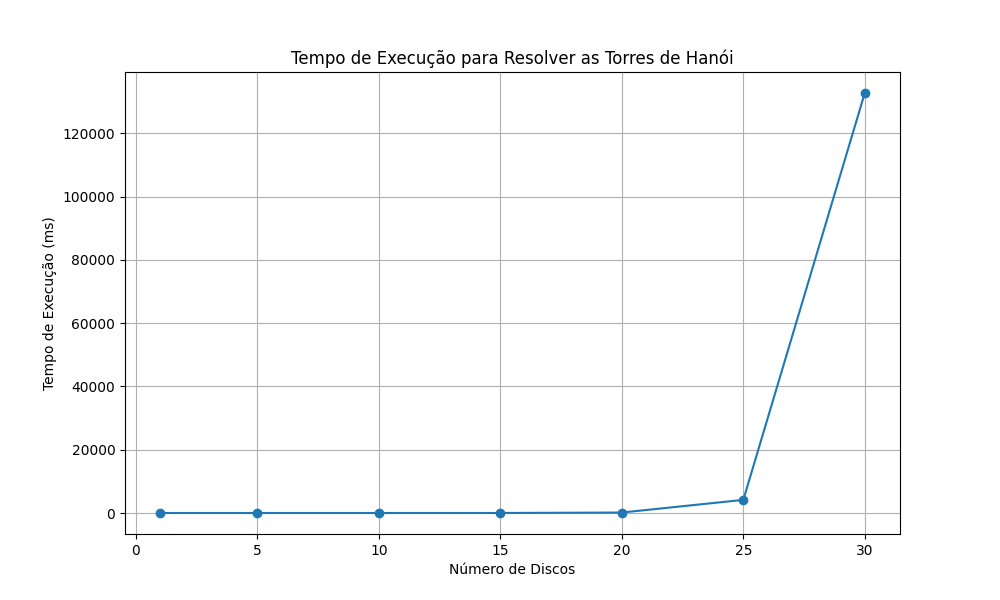
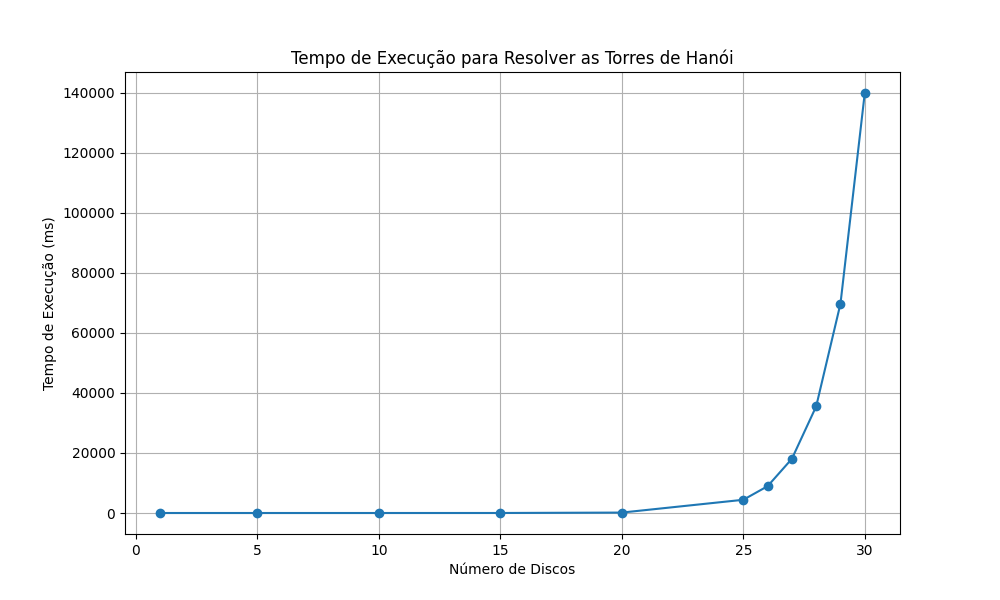
at

diff --git a/projetoBloco/tp2/15/cython/benchmark.py b/projetoBloco/tp2/15/cython/benchmark.py
@@ -1,0 +1,82 @@
+# benchmark.py
+import numpy as np
+import time
+import soma_paralela
+import matplotlib.pyplot as plt
+
+
+def executar_testes():
+    tamanhos = [1_000_000, 5_000_000, 10_000_000]
+    threads = [1, 2, 4, 8]
+
+    resultados = []
+
+    for tamanho in tamanhos:
+        print(f"\nTeste com lista de tamanho: {tamanho}")
+        print("--------------------------------------------------")
+
+        arr = np.arange(1, tamanho + 1, dtype=np.int64)
+
+        # Teste sequencial
+        start = time.perf_counter()
+        resultado_seq = soma_paralela.soma_sequencial(arr)
+        tempo_seq = (time.perf_counter() - start) * 1000
+
+        print(f"Sequencial - Resultado: {resultado_seq}, Tempo: {tempo_seq:.2f} ms")
+
+        # Testes paralelos
+        for t in threads:
+            start = time.perf_counter()
+            resultado_par = soma_paralela.soma_paralela(arr, t)
+            tempo_par = (time.perf_counter() - start) * 1000
+
+            speedup = tempo_seq / tempo_par
+            print(
+                f"Paralelo ({t} threads) - Resultado: {resultado_par}, Tempo: {tempo_par:.2f} ms, Speedup: {speedup:.2f}x")
+
+            resultados.append({
+                'tamanho': tamanho,
+                'threads': t,
+                'sequencial_ms': tempo_seq,
+                'paralelo_ms': tempo_par,
+                'speedup': speedup
+            })
+
+    return resultados
+
+
+def plotar_resultados(resultados):
+    tamanhos = sorted({r['tamanho'] for r in resultados})
+
+    for tamanho in tamanhos:
+        dados = [r for r in resultados if r['tamanho'] == tamanho]
+        threads = [d['threads'] for d in dados]
+        tempos = [d['paralelo_ms'] for d in dados]
+
+        plt.figure()
+        plt.bar([str(t) for t in threads], tempos)
+        plt.xlabel('Número de Threads')
+        plt.ylabel('Tempo (ms)')
+        plt.title(f'Desempenho Paralelo - Tamanho {tamanho:,}')
+        plt.savefig(f'cython_desempenho_{tamanho}.png')
+        plt.close()
+
+
+if __name__ == '__main__':
+    # Compila os módulos Cython
+    print("Compilando módulos Cython...")
+    from subprocess import run
+
+    run(["python", "setup.py", "build_ext", "--inplace"], check=True)
+
+    resultados = executar_testes()
+    plotar_resultados(resultados)
+
+    # Verificação final
+    print("\nVerificação de consistência:")
+    arr_pequeno = np.arange(1, 1001, dtype=np.int64)
+    soma_seq = soma_paralela.soma_sequencial(arr_pequeno)
+    soma_par = soma_paralela.soma_paralela(arr_pequeno, 2)
+    print(f"Soma Sequencial: {soma_seq}")
+    print(f"Soma Paralela: {soma_par}")
+    print(f"Resultados iguais: {soma_seq == soma_par}")

diff --git a/projetoBloco/tp2/15/soma-lista-numba-jit.py b/projetoBloco/tp2/15/soma-lista-numba-jit.py
@@ -1,0 +1,68 @@
+import time
+from multiprocessing import Pool
+import numpy as np
+from functools import reduce
+
+
+def generate_list(size):
+    return np.random.randint(1, 1000, size).tolist()
+
+
+def sequential_sum(numbers):
+    start_time = time.perf_counter()
+    result = sum(numbers)
+    end_time = time.perf_counter()
+    return result, (end_time - start_time) * 1000  # Convertendo para ms
+
+
+def partial_sum(chunk):
+    return sum(chunk)
+
+
+def parallel_sum(numbers, num_threads=4):
+    start_time = time.perf_counter()
+
+    chunk_size = len(numbers) // num_threads
+    chunks = [numbers[i:i + chunk_size] for i in range(0, len(numbers), chunk_size)]
+
+    with Pool(processes=num_threads) as pool:
+        partial_results = pool.map(partial_sum, chunks)
+
+    total = sum(partial_results)
+    end_time = time.perf_counter()
+
+    return total, (end_time - start_time) * 1000  # Convertendo para ms
+
+
+def perf_test(list_size, thread_configs=[1, 2, 4, 8]):
+    numbers = generate_list(list_size)
+    print(f"\nTeste com lista de tamanho: {list_size}")
+    print("-" * 50)
+
+    seq_result, seq_time = sequential_sum(numbers)
+    print(f"Sequencial - Resultado: {seq_result}, Tempo: {seq_time:.2f} ms")
+
+    for threads in thread_configs:
+        par_result, par_time = parallel_sum(numbers, threads)
+        speedup = seq_time / par_time if par_time > 0 else 0
+        print(f"Paralelo ({threads} threads) - Resultado: {par_result}, "
+              f"Tempo: {par_time:.2f} ms, Speedup: {speedup:.2f}x")
+
+
+def main():
+    test_sizes = [1000000, 5000000, 10000000]  # 1M, 5M, 10M elementos
+
+    for size in test_sizes:
+        perf_test(size)
+
+    sample_list = generate_list(100)
+    seq_sum, _ = sequential_sum(sample_list)
+    par_sum, _ = parallel_sum(sample_list, 4)
+    print(f"\nVerificação de consistência:")
+    print(f"Soma Sequencial: {seq_sum}")
+    print(f"Soma Paralela: {par_sum}")
+    print(f"Resultados iguais: {seq_sum == par_sum}")
+
+
+if __name__ == '__main__':
+    main()

diff --git a/projetoBloco/tp2/14/permuta.py b/projetoBloco/tp2/14/permuta.py
@@ -30,7 +30,7 @@ def solve_permute(string):
 
 
 if __name__ == '__main__':
-    strings = ["A", "AB", "ABC", "ABCD", "ABCDE", "ABCDEF"]
+    strings = ["A", "AB", "ABC", "ABCD", "ABCDE", "ABCDEF", "ABCDEFG", "ABCDEFGH"]
     tempos = []
 
     for s in strings:
@@ -39,7 +39,7 @@ if __name__ == '__main__':
         end_time = time.perf_counter()
         execution_time = end_time - start_time
         tempos.append(execution_time)
-        print(f"Tempo para '{s}': {execution_time:.4f} segundos")
+        print(f"Tempo para '{s}': {execution_time:.9f} segundos")
 
     plt.figure(figsize=(10, 6))
     plt.plot(strings, tempos, marker='o')

diff --git a/projetoBloco/tp2/15/cython/setup.py b/projetoBloco/tp2/15/cython/setup.py
@@ -1,0 +1,20 @@
+# setup.py
+from distutils.core import setup
+from distutils.extension import Extension
+from Cython.Build import cythonize
+import numpy as np
+
+extensions = [
+    Extension(
+        "soma_paralela",
+        sources=["soma_paralela.pyx"],
+        extra_compile_args=["-fopenmp"],
+        extra_link_args=["-fopenmp"],
+        include_dirs=[np.get_include()]
+    )
+]
+
+setup(
+    name="soma_paralela",
+    ext_modules=cythonize(extensions, annotate=True),
+)

diff --git a/projetoBloco/tp2/13.2/hanoi.1-30.py b/projetoBloco/tp2/13.2/hanoi.1-30.py
@@ -22,7 +22,7 @@ def solve_hanoi(discos):
 
 if __name__ == '__main__':
     tempos = []
-    discos = [1, 5, 10, 15, 20, 25, 30]
+    discos = [1, 5, 10, 15, 20, 25, 26,27, 28, 29, 30]
 
     for n in discos:
         start_time = time.perf_counter()
